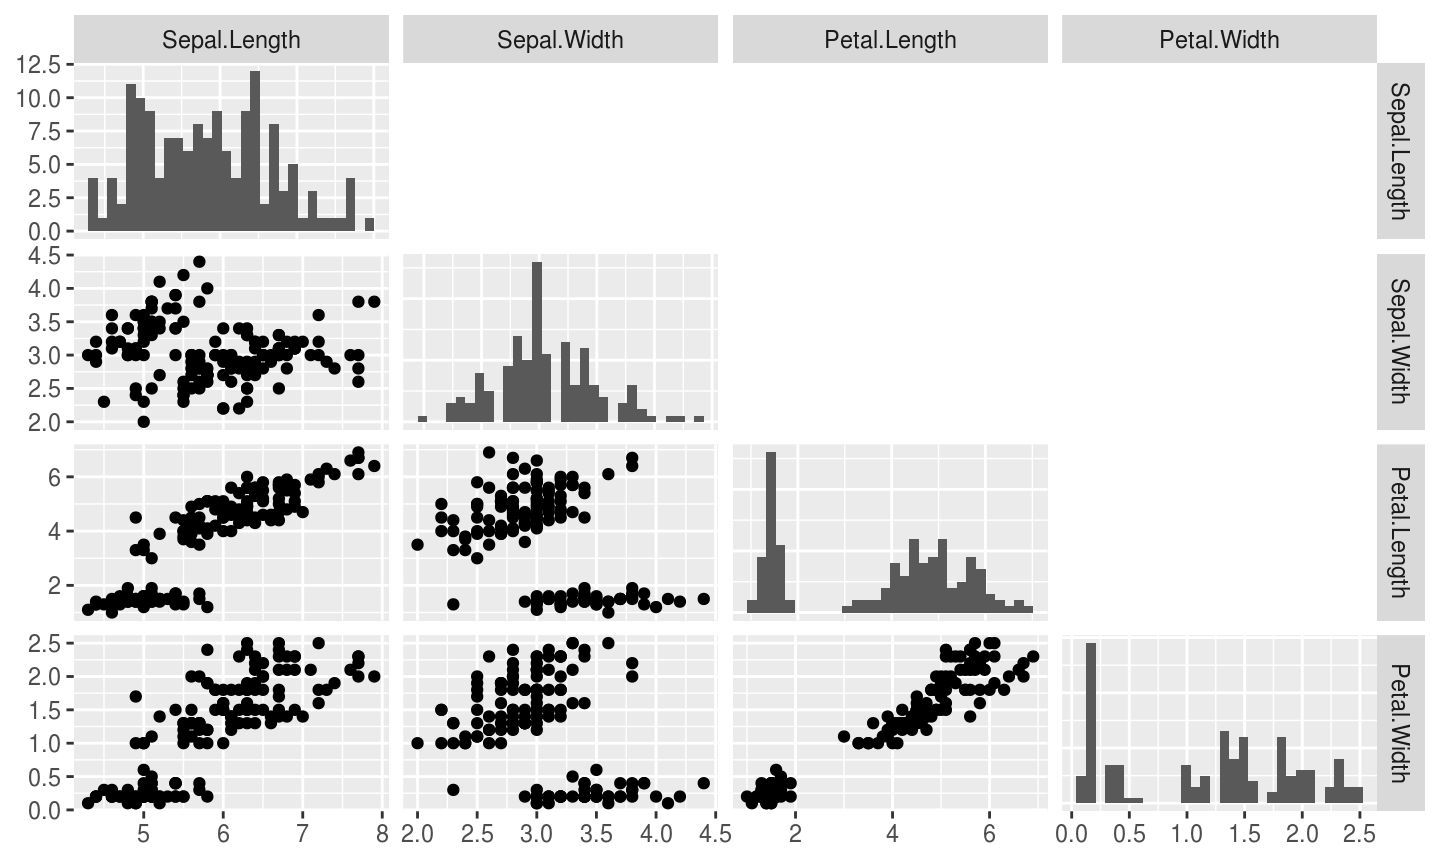
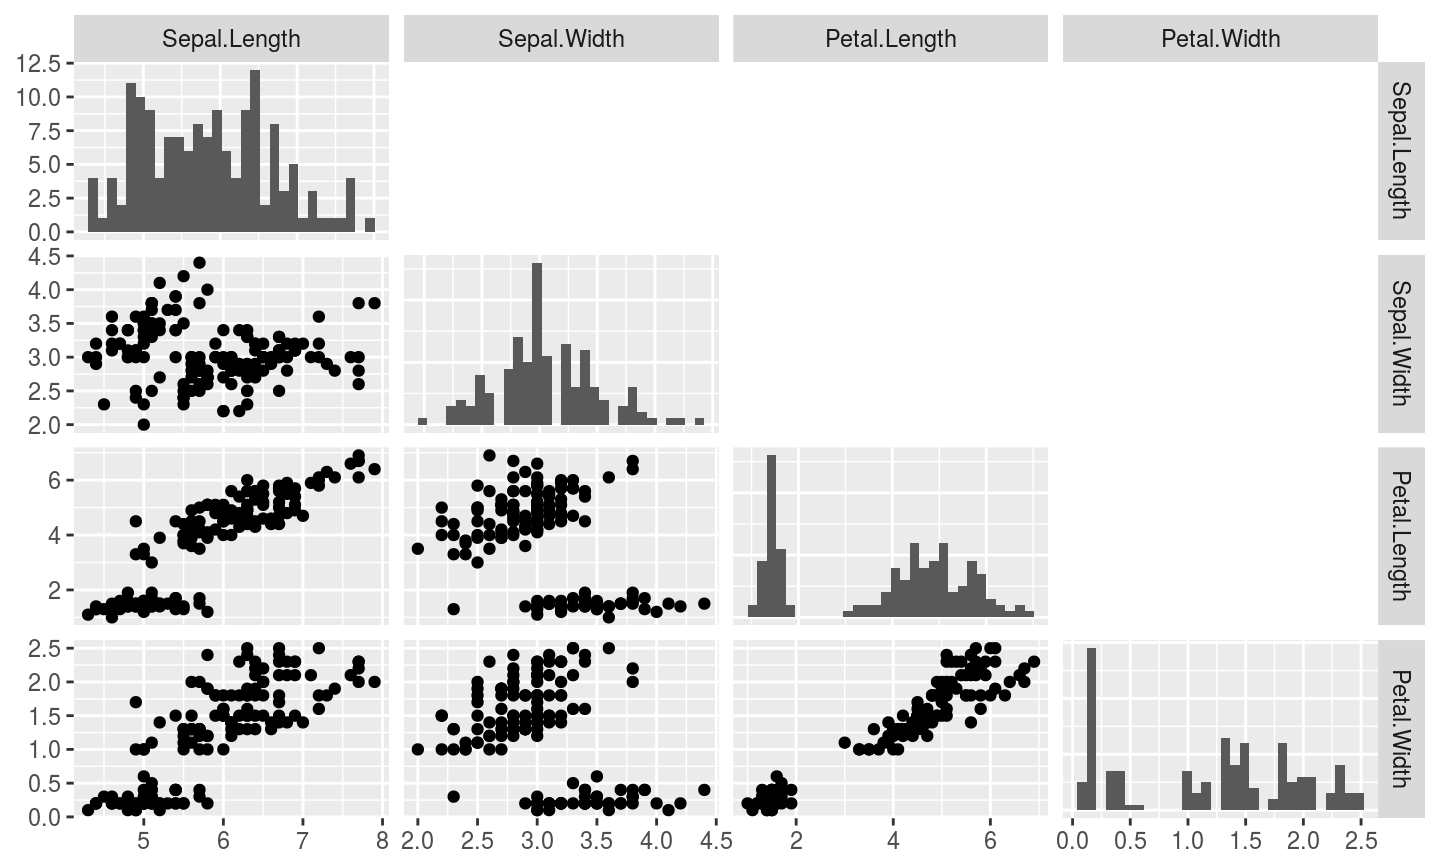
update image width

diff --git a/index.html b/index.html
@@ -130,7 +130,7 @@
 <p><img src = 'figures/discounting_task.png' style="height:6em" /></p>
 
 <img src = 'figures/discounting_eq.png' style="height:3em" /></div></li>
-<li>and the diss&#8230;</li>
+<li>and the diss…</li>
 </ul>
 
 </article></slide><slide class=""><hgroup><h2>Measuring social motives via RL</h2></hgroup><article  id="measuring-social-motives-via-rl">
@@ -151,23 +151,23 @@
 
 </article></slide><slide class=""><hgroup><h2>Social motives affect learning</h2></hgroup><article  id="social-motives-affect-learning">
 
-<p><img src="figures/trial_by_trial.png" /></p>
+<p><img src="figures/trial_by_trial.png" style="width:40%"/></p>
 
 </article></slide><slide class=""><hgroup><h2>Learning improves through adolescence</h2></hgroup><article  id="learning-improves-through-adolescence">
 
-<p><img src="figures/poptageplot-1.png" /></p>
+<p><img src="figures/poptageplot-1.png" style="width:60%"/></p>
 
 </article></slide><slide class=""><hgroup><h2>Learning potentiation is stable</h2></hgroup><article  id="learning-potentiation-is-stable">
 
-<p><img src="figures/poptdiffageplot-1.png" /></p>
+<p><img src="figures/poptdiffageplot-1.png" style="width:60%"/></p>
 
 </article></slide><slide class=""><hgroup><h2>Decomposing using computational modeling</h2></hgroup><article  id="decomposing-using-computational-modeling">
 
 <p>Potentiation due to learning rate, age effects due to reduced reponse to large rewards, increased attention</p>
 
-<p><img src="figures/model_age.png" /></p>
+<p><img src="figures/model_age.png" style="width:60%"/></p>
 
-</article></slide><slide class=""><hgroup><h2>Looking ahead&#8230;</h2></hgroup><article  id="looking-ahead...">
+</article></slide><slide class=""><hgroup><h2>Looking ahead…</h2></hgroup><article  id="looking-ahead">
 
 <ol class = 'build'>
 <li>How do daily emotional dynamics relate to stress and psychopathology symptoms?</li>
@@ -205,15 +205,15 @@
 </article></slide><slide class=""><hgroup><h2>Taxonomy versus Dimensionality</h2></hgroup><article  id="taxonomy-versus-dimensionality">
 
 <blockquote>
-<p>A taxon is a nonarbitrary class whose existence is conjectured as an empirical question, not a mere semantic convenience. Numerous taxa are known to exist in nature and society&#8230;. What personality types, if any, occur in the nonpathological population remains to be researched by sophisticated methods, and cannot be settled by fiat or &quot;dimensional&quot; preference. The intuitive concept of taxonicity is to be explicated by a combination of formal-numerical and causal criteria. Taxometric methods should include consistency tests that provide Popperian risk of strong discorroboration. (Meehl, 1992)</p>
+<p>A taxon is a nonarbitrary class whose existence is conjectured as an empirical question, not a mere semantic convenience. Numerous taxa are known to exist in nature and society…. What personality types, if any, occur in the nonpathological population remains to be researched by sophisticated methods, and cannot be settled by fiat or &ldquo;dimensional&rdquo; preference. The intuitive concept of taxonicity is to be explicated by a combination of formal-numerical and causal criteria. Taxometric methods should include consistency tests that provide Popperian risk of strong discorroboration. (Meehl, 1992)</p>
 </blockquote>
 
-<p>&quot;Differences of kind rather than degree&quot;</p>
+<p>&ldquo;Differences of kind rather than degree&rdquo;</p>
 
 </article></slide><slide class=""><hgroup><h2>Dimensional example</h2></hgroup><article  id="dimensional-example">
 
 <blockquote>
-<p>[Dimensional models]&#8230;treat underlying liability as a continuous phenomenon, with individuals varying along a continuous, graded range of liability to disorder. Another tractable possibility is to treat the liabilities as discrete, with individuals being members of discrete classes or groups of individuals. Under the former conceptualization, liability represents a continuum of risk to disorder; under the latter conceptualization, liability represents types or categories of risk to disorder. (Krueger &amp; Markin, 2006)</p>
+<p>[Dimensional models]…treat underlying liability as a continuous phenomenon, with individuals varying along a continuous, graded range of liability to disorder. Another tractable possibility is to treat the liabilities as discrete, with individuals being members of discrete classes or groups of individuals. Under the former conceptualization, liability represents a continuum of risk to disorder; under the latter conceptualization, liability represents types or categories of risk to disorder. (Krueger &amp; Markin, 2006)</p>
 </blockquote>
 
 <p><img src="figures/krueger_fig2.png" style="width:60%;float:right" /> Powerful for describing comorbidity</p>
@@ -228,7 +228,7 @@
 
 </article></slide><slide class=""><hgroup><h2>Clustering algorithms</h2></hgroup><article  id="clustering-algorithms">
 
-<p>Let&#39;s say we know there are 3 species, but we don&#39;t know which is which.</p>
+<p>Let’s say we know there are 3 species, but we don’t know which is which.</p>
 
 <div style="width:40%; float:right">
 <table class = 'rmdtable'>
@@ -260,15 +260,15 @@
 <p><br /><br /></p>
 
 <ul class = 'build'>
-<li>It&#39;s easy to separate Setosa, but not so much Versicolor &amp; Virginica. Other choices of algorithm and variable-sets (I used all 4) produce better results.</li>
+<li>It’s easy to separate Setosa, but not so much Versicolor &amp; Virginica. Other choices of algorithm and variable-sets (I used all 4) produce better results.</li>
 </ul>
 
-</article></slide><slide class=""><hgroup><h2>Drysdale et al&#39;s clustering</h2></hgroup><article  id="drysdale-et-als-clustering">
+</article></slide><slide class=""><hgroup><h2>Drysdale et al’s clustering</h2></hgroup><article  id="drysdale-et-als-clustering">
 
 <p><img src="figures/fig1_ef.png" style="width:60%" /></p>
 
 <ul class = 'build'>
-<li>Back to Gina&#39;s questions:
+<li>Back to Gina’s questions:
 
 <ul class = 'build'>
 <li>Why would we expect people to be separable into subtypes?</li>
@@ -305,7 +305,7 @@
 <li>You find the set of \(\pi\) and \(\beta\) coefficients so that when you do the math on both sides, the result is maximally correlated.</li>
 <li>For example, for 3 \(x\) and 3 \(y\) variables \(V_y = p_1 \cdot y_1 + p_2\cdot y_2 + p_3\cdot y_3\), \(V_x = b_1 \cdot x_1 + b_2\cdot x_2 + b_3\cdot x_3\), you want to set all the \(p\)s and \(b\)s so that you maximize the correlation between \(V_y\) and \(V_x\).</li>
 <li>\(V_y\) and \(V_x\) are now your first pair of <em>Cannonical Variates</em>.</li>
-<li>You can do this again to get another pair that isn&#39;t correlated to the first pair.</li>
+<li>You can do this again to get another pair that isn’t correlated to the first pair.</li>
 </ul>
 
 </article></slide><slide class=""><hgroup><h2>Understanding how clustering inputs are constructed</h2></hgroup><article  id="understanding-how-clustering-inputs-are-constructed">
@@ -322,7 +322,7 @@
 
 <ul class = 'build'>
 <li><img src="figures/fig1_f.png" style="float:right;width:37%"/> Clustering is done on two weighted sums of rsfMRI correlations that best approximate weighted sums of depression symptoms.</li>
-<li>Gina&#39;s final question: What would we expect from non-diagnosed participants? <img src="figures/all_sympt.png" /></li>
+<li>Gina’s final question: What would we expect from non-diagnosed participants? <img src="figures/all_sympt.png" /></li>
 </ul>
 
 </article></slide><slide class=""><hgroup><h2>Interpreting rsfMRI differences</h2></hgroup><article  id="interpreting-rsfmri-differences">
@@ -331,13 +331,13 @@
 
 </article></slide><slide class=""><hgroup><h2>Looking toward Gen R</h2></hgroup><article  id="looking-toward-gen-r">
 
-<p>The plan is to proceed as in Drysdale&#8230;</p>
+<p>The plan is to proceed as in Drysdale…</p>
 
 <ol class = 'build'>
 <li>May examine performance of different parcel-schemes
 
 <ul class = 'build'>
-<li>Power et al&#39;s spheres, but also Yeo, voxelwise, or other techniques</li>
+<li>Power et al’s spheres, but also Yeo, voxelwise, or other techniques</li>
 </ul></li>
 <li>Define canonical variates based one
 
@@ -364,9 +364,9 @@
 <li>Diagnostic: can I know something about an individual based on other characterstics
 
 <ul class = 'build'>
-<li>Can we figure out someone&#39;s mental health diagnostic status from rsfMRI</li>
+<li>Can we figure out someone’s mental health diagnostic status from rsfMRI</li>
 </ul></li>
-<li>Forecasting: can I know an individual&#39;s future state based on their state today
+<li>Forecasting: can I know an individual’s future state based on their state today
 
 <ul class = 'build'>
 <li>Can we tell if someone will develop psychopathology tomorrow based on everything we know about them today</li>
@@ -378,16 +378,16 @@
 
 <ul class = 'build'>
 <li>Well, we can predict things</li>
-<li>It&#39;s a severe metric for the presence of predictive information in our data+model</li>
+<li>It’s a severe metric for the presence of predictive information in our data+model</li>
 <li>Predictive performance is a very good common metric for comparing approaches</li>
 <li>With a decently sized sample, it gives you good information about what you might expect from a replication</li>
-<li>Further reading: Yarkoni &amp; Westfall (2016) Choosing Prediction&#8230;</li>
+<li>Further reading: Yarkoni &amp; Westfall (2016) Choosing Prediction…</li>
 </ul>
 
 </article></slide><slide class=""><hgroup><h2>What does this look like procedurally?</h2></hgroup><article  id="what-does-this-look-like-procedurally">
 
 <ul class = 'build'>
-<li>Cross validated prediction means building a model (e.g., estimating regression coefficients) in one set of data&#8230;</li>
+<li>Cross validated prediction means building a model (e.g., estimating regression coefficients) in one set of data…</li>
 <li>and then using that model (e.g., the estimated coefficients) to see how well they work with new data \(X\) to predict \(y\)</li>
 <li>For predicting categories (diagnosed versus healthy control) your output is
 
@@ -402,13 +402,13 @@
 
 </article></slide><slide class=""><hgroup><h2>How do Drysdale et al use prediction metrics?</h2></hgroup><article  id="how-do-drysdale-et-al-use-prediction-metrics">
 
-<p>Fig. 3 &#8211; Train N = 711 (333 dx dep, 378 hc; 47%/53%), test N = 477 (125 dx dep, 352 hc; 26%/74%)</p>
+<p>Fig. 3 – Train N = 711 (333 dx dep, 378 hc; 47%/53%), test N = 477 (125 dx dep, 352 hc; 26%/74%)</p>
 
 <p><img src="figures/pred_rez1.png" style="width:50%;float:left" /><img src="figures/pred_rez2.png" style="width:50%;float:left" /></p>
 
-</article></slide><slide class=""><hgroup><h2>for rTMS associaitons&#8230;</h2></hgroup><article  id="for-rtms-associaitons...">
+</article></slide><slide class=""><hgroup><h2>for rTMS associaitons…</h2></hgroup><article  id="for-rtms-associaitons">
 
-<p>Fig. 4 &#8211; Train N = 124 (70 responders, 54 non-responders; 56%/44%), test N = 30 (?, ?)</p>
+<p>Fig. 4 – Train N = 124 (70 responders, 54 non-responders; 56%/44%), test N = 30 (?, ?)</p>
 
 <p><img src="figures/pred_tms_rez1.png" style="width:50%;float:left" /><img src="figures/pred_tms_rez2.png" style="width:50%;float:left" /></p>
 
